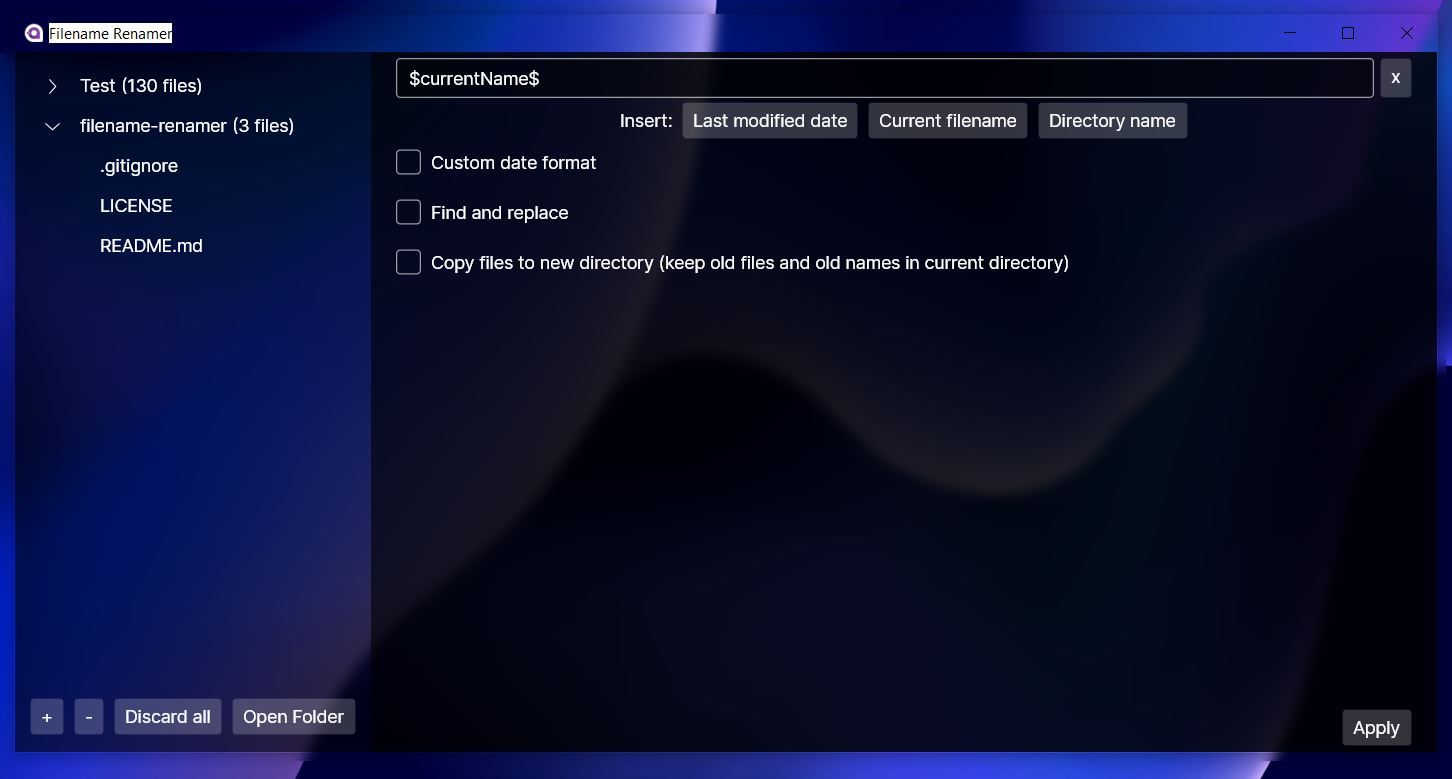
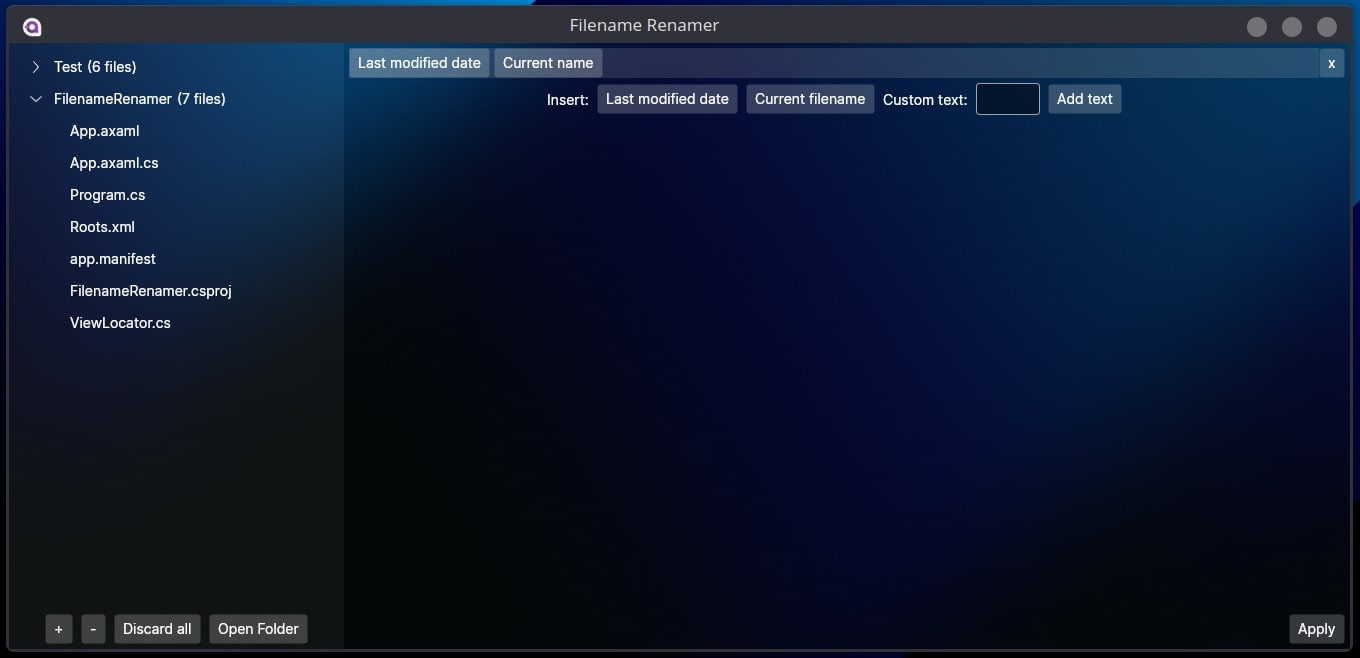
Update screenshot and README.md

diff --git a/README.md b/README.md
@@ -2,6 +2,6 @@
 
 ![Screenshot](docs/Screenshot.jpg)
 
-Filename Renamer is an application created to rename files in bulk.
+Filename Renamer is an application created to rename files in bulk through an easy to use drag and drop interface.
 It currently supports appending any new text and even some file metadata, like the last modified date.
 It is written with C# and .NET, and utilizes Avalonia UI for the GUI.
